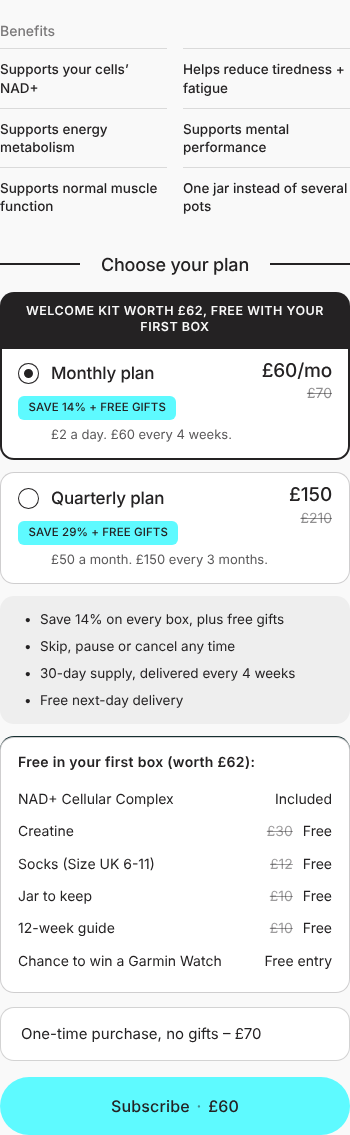
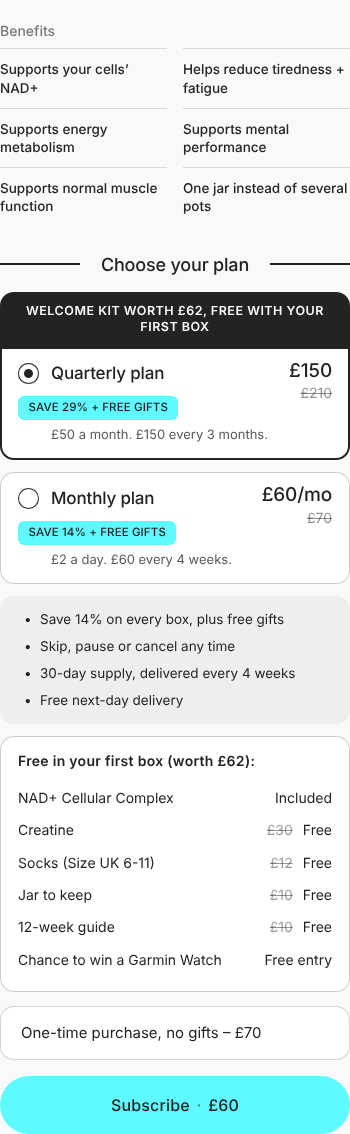
-2 PDP: lead with the quarterly plan (shown first, pre-selected)
Claude-Session: https://claude.ai/code/session_01YUaqMprd9jDWbjH8Lh4n9H

diff --git a/shopify/pdp-45/artah/artah.css b/shopify/pdp-45/artah/artah.css
@@ -40,6 +40,12 @@ html body .mc .mc__plan-detail ul{margin:0;padding:0;display:grid;grid-template-
 html body .mc .mc__plan-detail li{margin:0;list-style:none}
 html body .mc .mc__plan-terms{margin:12px 0 0;padding-top:12px}
 html body .mc .mc__plan-term{font-size:13.5px;line-height:1.4}
+/* Lead with the quarterly plan: the cards render in Skio's order (monthly first), so reorder visually */
+html body .mc .mc__plans{display:flex;flex-direction:column}
+html body .mc .mc__plans > *{order:4}
+html body .mc .mc__plans > .mc__plans-banner{order:1}
+html body .mc .mc__plans > label.mc__plan:nth-of-type(2){order:2;margin-top:0;border-radius:0 0 14px 14px}
+html body .mc .mc__plans > label.mc__plan:nth-of-type(1){order:3;margin-top:12px;border-radius:14px}
 html body .mc .mc__plans .mc__kit{border-top:0;margin:12px 0 0;padding:16px 18px;border-radius:14px;background:#fff;box-shadow:inset 0 0 0 1px rgba(36,34,35,.22)}
 
 /* ---- Welcome kit and later gifts ---- */

diff --git a/shopify/pdp-45/artah/artah.js b/shopify/pdp-45/artah/artah.js
@@ -10,3 +10,12 @@ document.addEventListener('click', function (e) {
   d.open = true;
   d.scrollIntoView({ behavior: 'smooth', block: 'center' });
 });
+
+/* Start on the quarterly plan (the second card in Skio's order), once the section script is ready */
+window.addEventListener('load', function () {
+  setTimeout(function () {
+    var cards = document.querySelectorAll('.mc__plans > label.mc__plan');
+    var q = cards[1] && cards[1].querySelector('.mc__plan-input');
+    if (q && !q.checked && !q.disabled) q.click();
+  }, 50);
+});
